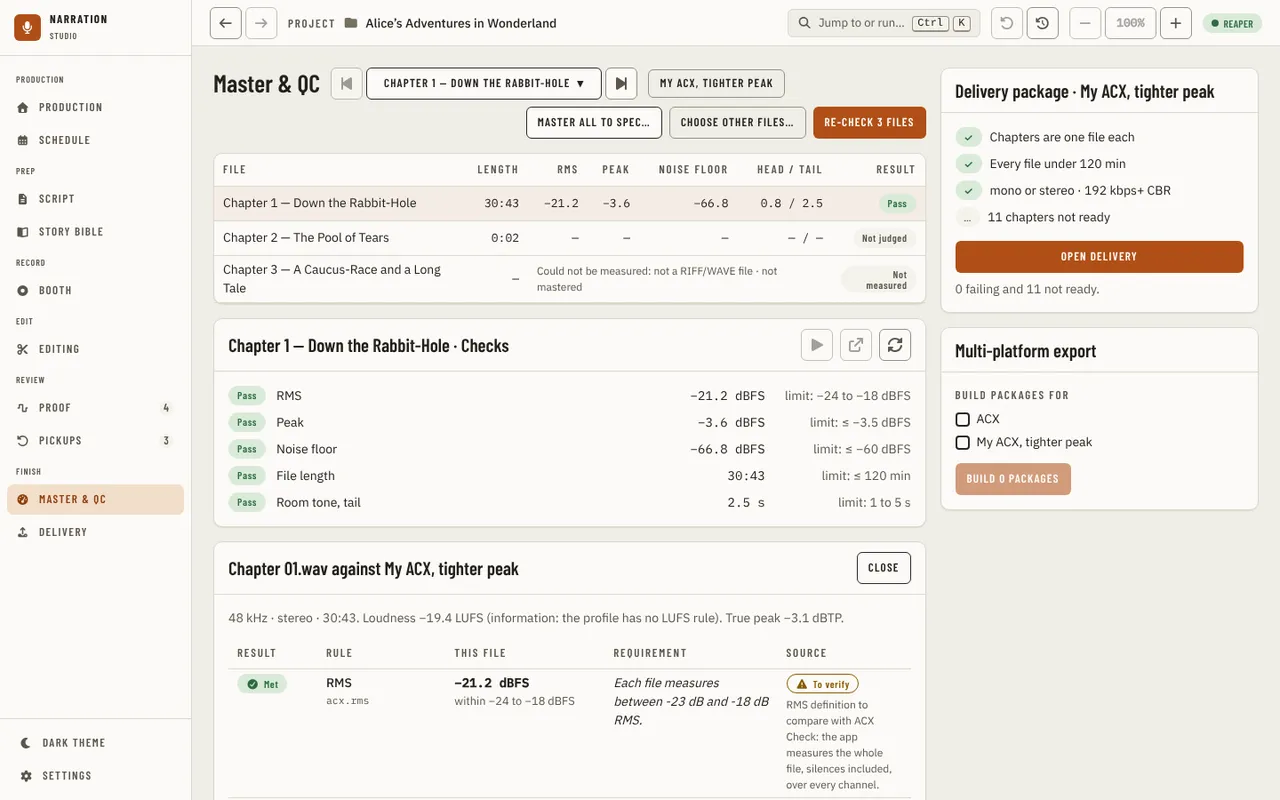
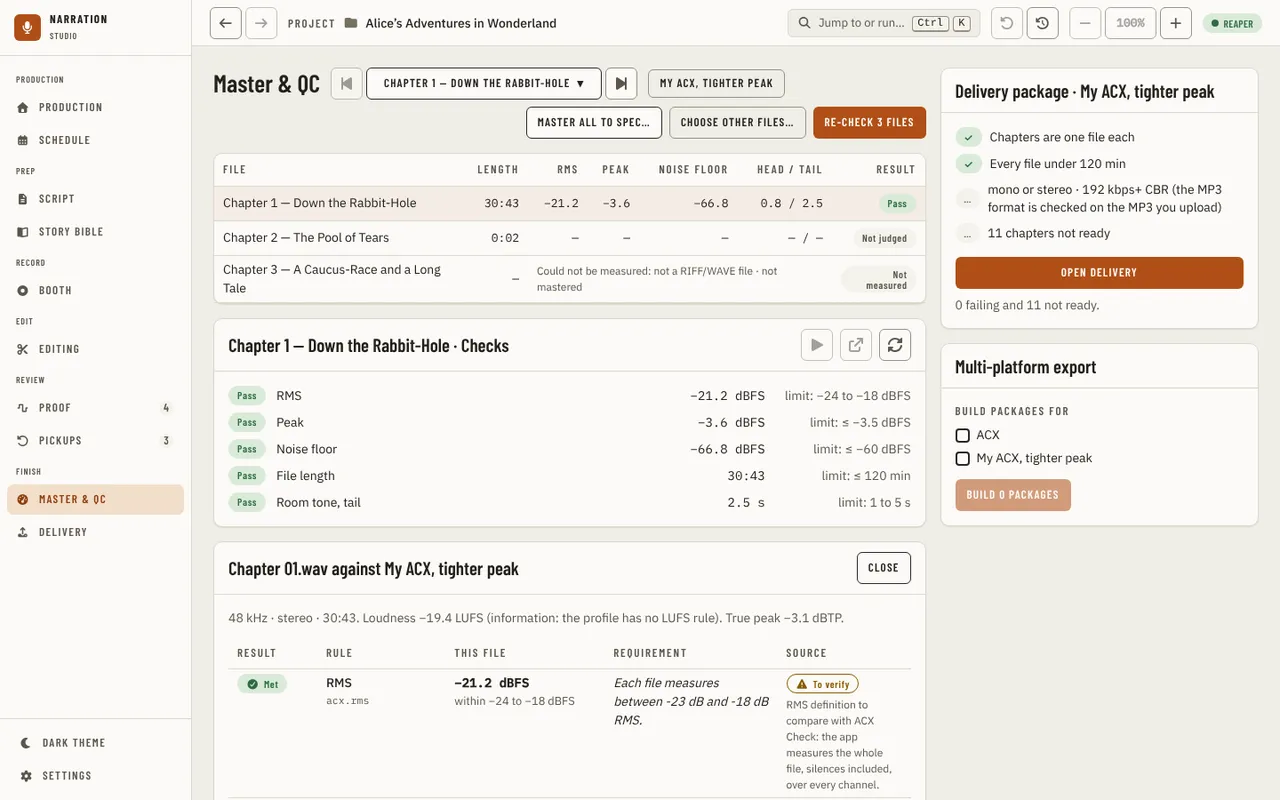
fix(master): follow a #file= link while open, say when it is unmet, don't tick the MP3
Found by the walkthrough:
- a link followed while the page is open is now followed
- a link with nothing measured says what it needs
- the package row for the MP3 format waits instead of ticking, as the
  host does not judge it on a WAV render
Behaviour change in one test: the package row's text now carries the
reason it waits.

Claude-Session: https://claude.ai/code/session_01RBTEqovSqoqt7xRER4f2FQ

Changed region(s): [[0.75, 0.2188, 0.9688, 0.6562]]

diff --git a/apps/ui/src/components/masterqc/page/Page.test.tsx b/apps/ui/src/components/masterqc/page/Page.test.tsx
@@ -101,6 +101,29 @@ describe('Master & QC page body', () => {
     expect(screen.queryByRole('status', { name: 'Link not found' })).toBeNull();
   });
 
+  it('says what a #file= link needs when nothing is measured yet', async () => {
+    withChapters([], { focusFile: 'C:/Renders/Chapter 02.wav' });
+    const note = await screen.findByRole('status', { name: 'Link not found' });
+    expect(note.textContent).toContain('C:/Renders/Chapter 02.wav');
+    expect(note.textContent).toContain('no files are measured yet');
+  });
+
+  it('follows a #file= link that arrives while the page is open', async () => {
+    const api = apiOf(jobOf(TWO_FAIL, acx), acx);
+    const view = render(
+      <PageHost api={api}>
+        <MasterPage {...PROPS} onOpenDelivery={vi.fn()} openSettings={vi.fn()} focusFile="C:/Renders/Chapter 04.wav" />
+      </PageHost>,
+    );
+    expect(await screen.findByRole('heading', { name: 'Chapter 04.wav · Why it fails' })).toBeTruthy();
+    view.rerender(
+      <PageHost api={api}>
+        <MasterPage {...PROPS} onOpenDelivery={vi.fn()} openSettings={vi.fn()} focusFile="C:/Renders/Chapter 02.wav" />
+      </PageHost>,
+    );
+    expect(await screen.findByRole('heading', { name: 'Chapter 02.wav · Checks' })).toBeTruthy();
+  });
+
   it('does not call a link stale when it names a measured file or a chapter', async () => {
     withChapters(TWO_FAIL, { focusFile: 'C:/Renders/Chapter 02.wav' });
     expect(await screen.findByRole('heading', { name: /· (Checks|Why it fails)$/ })).toBeTruthy();
@@ -115,7 +138,15 @@ describe('Master & QC page body', () => {
     const list = within(package_());
     expect(list.getByText('Chapters are one file each')).toBeTruthy();
     expect(list.getByText('Every file under 120 min')).toBeTruthy();
-    expect(list.getByText('mono or stereo · 44.1 kHz · 192 kbps+ CBR')).toBeTruthy();
+    // Behaviour change: the MP3 format is not judged on a WAV render, so this line waits instead of ticking.
+    expect(list.getByText('mono or stereo · 44.1 kHz · 192 kbps+ CBR (the MP3 format is checked on the MP3 you upload)')).toBeTruthy();
+  });
+
+  it('does not tick the MP3 format the host did not judge on a WAV render', async () => {
+    mount(ALL_PASS);
+    const list = within(await screen.findByRole('complementary', { name: /Delivery package/ }));
+    const item = list.getByText(/the MP3 format is checked on the MP3 you upload/).closest('li')!;
+    expect(item.textContent).not.toMatch(/^Pass/);
   });
 
   it('counts-failing-and-not-ready-from-the-files', async () => {

diff --git a/apps/ui/src/components/masterqc/page/MasterPage.tsx b/apps/ui/src/components/masterqc/page/MasterPage.tsx
@@ -80,6 +80,10 @@ function MasterBody({ projectFolder, onOpenDelivery, openSettings, fileActions, 
   const [profileProblem, setProfileProblem] = useState<string>();
   // A file's path, or a chapter's id when that chapter has no file yet. The chapter bar is read off it.
   const [picked, setPicked] = useState<string | undefined>(focusFile);
+  // A link that arrives while the page is open (the narrator follows another one) moves the selection too.
+  useEffect(() => {
+    if (focusFile !== undefined) setPicked(focusFile);
+  }, [focusFile]);
   // The file whose every-rule list the narrator closed; selecting another file shows its list again.
   const [rulesClosed, setRulesClosed] = useState<string>();
 
@@ -125,7 +129,7 @@ function MasterBody({ projectFolder, onOpenDelivery, openSettings, fileActions, 
   // drawn as an empty "Not mastered" panel. Judged only once the files and the chapter list are both known.
   const staleLink =
     picked !== undefined &&
-    run.job !== undefined &&
+    run.lastHeard !== undefined &&
     !run.running &&
     chaptersRead &&
     !chaptersProblem &&
@@ -199,7 +203,11 @@ function MasterBody({ projectFolder, onOpenDelivery, openSettings, fileActions, 
           )}
           {staleLink !== undefined && (
             <div role="status" aria-label="Link not found" className="flex flex-wrap items-center gap-2 text-sm" style={MUTED}>
-              <span>The link names {staleLink}, which this check does not include. It may have been renamed, moved or not measured yet.</span>
+              <span>
+                {run.files.length === 0
+                  ? `The link names ${staleLink}, but no files are measured yet. Check files to measure them.`
+                  : `The link names ${staleLink}, which this check does not include. It may have been renamed, moved or not measured yet.`}
+              </span>
               <Button variant="secondary" size="sm" onClick={() => setPicked(undefined)}>
                 Show the first file instead
               </Button>

diff --git a/apps/ui/src/components/masterqc/page/packageItems.ts b/apps/ui/src/components/masterqc/page/packageItems.ts
@@ -57,7 +57,14 @@ export function packageItems(profile: DeliveryProfile | undefined, files: readon
     rate && formatBound(rate),
     format && formatBound(format),
   ].filter((part): part is string => !!part);
-  if (parts.length > 0) items.push({ state: missed(files, [channels, rate, format]) ? 'bad' : 'ok', text: parts.join(' · ') });
+  // The MP3's format cannot be judged from a WAV render: a format the host never judged is waiting, not passing.
+  const judged = (statuses: readonly string[]) =>
+    files.some((file) => file.rules.some((result) => result.ruleId === format?.id && statuses.includes(result.status)));
+  const formatUnjudged = !!format && judged(['not_checked', 'not_measurable']) && !judged(['met', 'not_met']);
+  if (parts.length > 0) {
+    const state = missed(files, [channels, rate, format]) ? 'bad' : formatUnjudged ? 'wait' : 'ok';
+    items.push({ state, text: parts.join(' · ') + (state === 'wait' ? ' (the MP3 format is checked on the MP3 you upload)' : '') });
+  }
   return anyMeasured(files) ? items : items.map((item): PackageItem => ({ ...item, state: 'wait' }));
 }
 

diff --git a/docs/guides/using-the-app/master-and-qc.md b/docs/guides/using-the-app/master-and-qc.md
@@ -78,7 +78,12 @@ nothing measured it says **No measured files yet** rather than a zero.
 file each, every file under the profile's longest length, the channels, sample rate and MP3 format), the files that
 fail and how many checks each fails, and how many chapters are not ready (the same count Delivery's **Before you
 build** gives). A rule the profile lacks or
-has turned off has no row. **Open Delivery** goes on to build the package.
+has turned off has no row. The MP3 format cannot be judged from a WAV render, so that row waits (with "the MP3
+format is checked on the MP3 you upload") instead of showing a tick. **Open Delivery** goes on to build the package.
+
+A link from another page can name a file. If that file is not in the check (or nothing is measured yet), the page
+says so in a **Link not found** note with **Show the first file instead**, and a link followed while the page is open
+moves the selection to the file it names.
 
 ![Master & QC judged by a custom profile based on ACX, named on the profile button](../../images/ui/master-custom-profile.webp)
 
